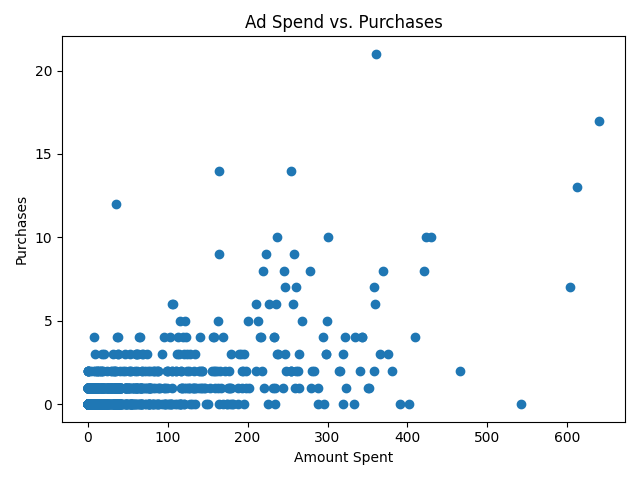
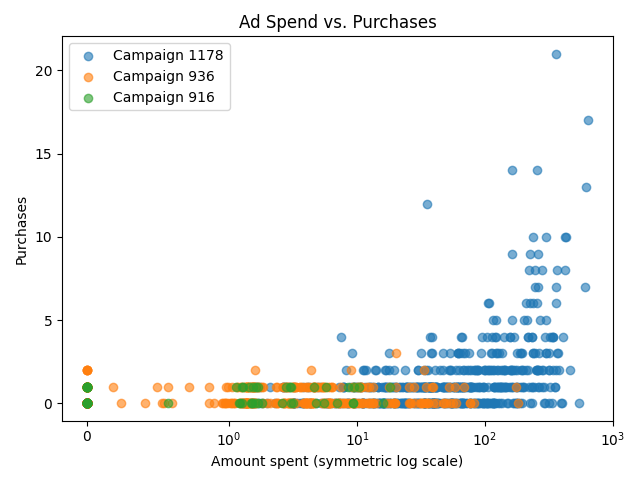
Colour scatter plot by campaign and use symmetric log scale

diff --git a/src/campaign_insights/plotting.py b/src/campaign_insights/plotting.py
@@ -23,12 +23,27 @@ def plot_ctr_by_campaign(campaigns, output_path):
 
 
 def plot_spend_vs_purchases(df, output_path):
-    """Scatter plot of ad spend against purchases, saved to output_path."""
+    """Scatter plot of ad spend against purchases, one colour per campaign.
+
+    The x-axis uses a symmetric log scale, so that small and large budgets
+    are both visible and ads with zero spend can still be shown.
+    """
     fig, ax = plt.subplots()
-    ax.scatter(df["spent"], df["purchases"])
-    ax.set_xlabel("Amount Spent")
+    groups = list(df.groupby("campaign_id"))
+    # Draw the largest campaign first, so the smaller ones stay visible on top.
+    groups.sort(key=lambda item: len(item[1]), reverse=True)
+    for campaign_id, group in groups:
+        ax.scatter(
+            group["spent"],
+            group["purchases"],
+            label=f"Campaign {campaign_id}",
+            alpha=0.6,
+        )
+    ax.set_xscale("symlog", linthresh=1)
+    ax.set_xlabel("Amount spent (symmetric log scale)")
     ax.set_ylabel("Purchases")
     ax.set_title("Ad Spend vs. Purchases")
+    ax.legend()
     fig.tight_layout()
     fig.savefig(output_path)
     plt.close(fig)
